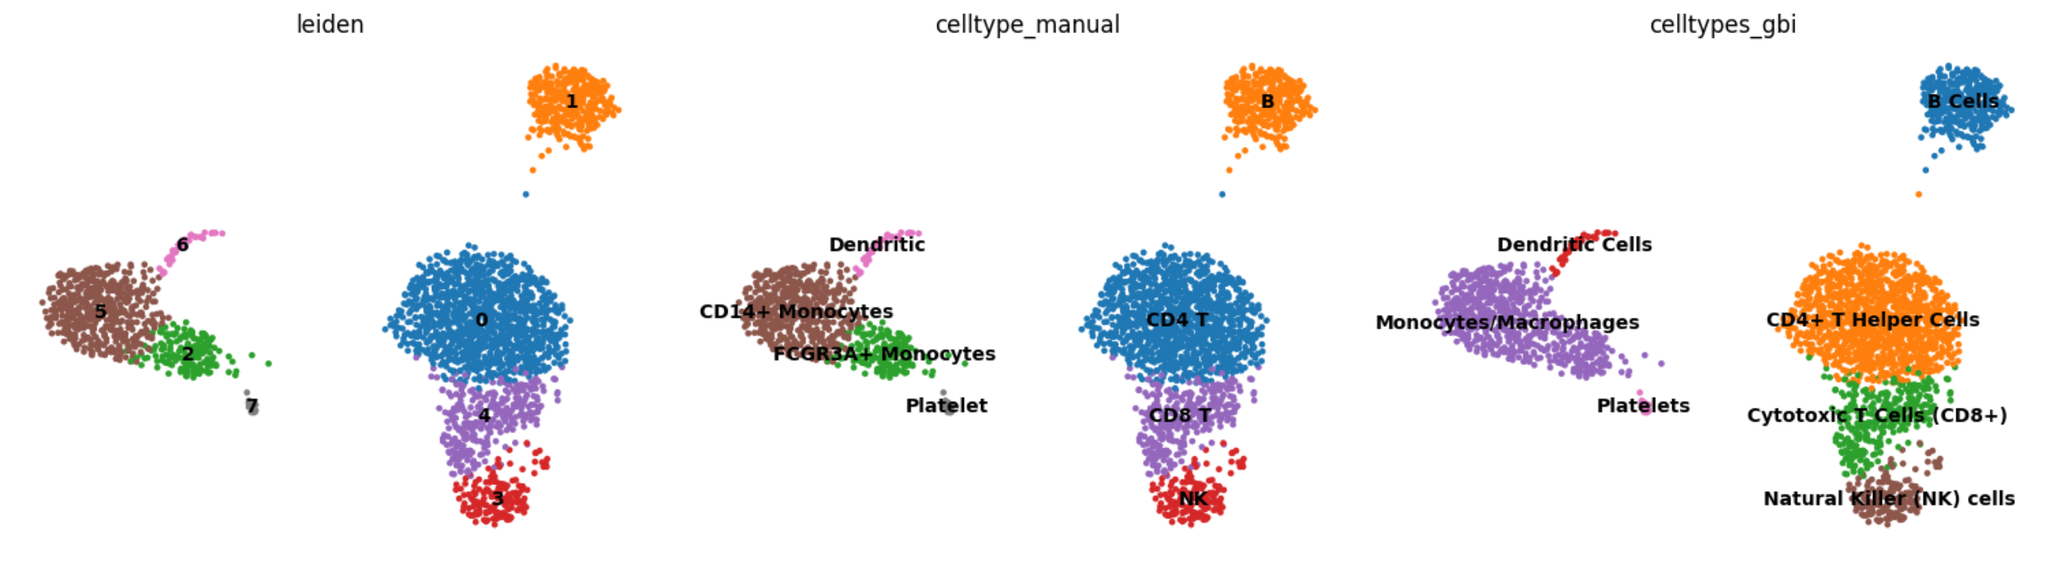
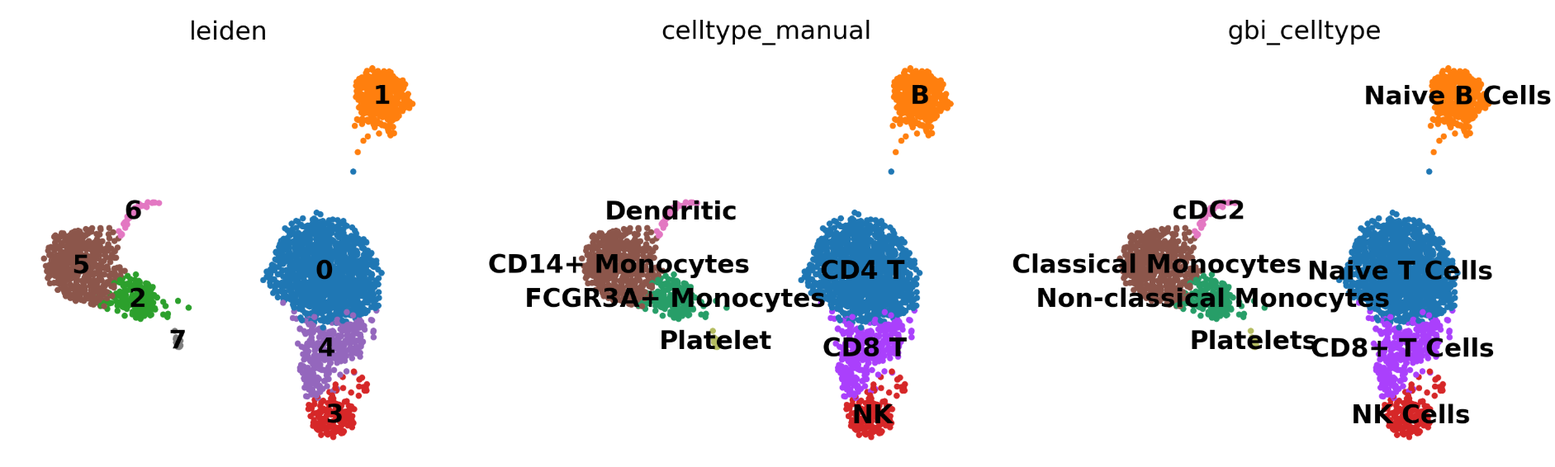
update docs

diff --git a/docs/en/source/tutorials/get_celltype.md b/docs/en/source/tutorials/get_celltype.md
@@ -96,15 +96,30 @@ res = gbi.get_celltype(adata, background=background,
                        out="gbi.claude.celltype.md", key="logreg_deg", 
                        topnumber=15,provider="anthropic", 
                        n_jobs=4,model="claude-3-5-sonnet-20241022")
-# {'0': 'CD4+ T Helper Cells',
-#  '1': 'B Cells',
-#  '2': 'Monocytes/Macrophages',
-#  '3': 'Natural Killer (NK) cells',
-#  '4': 'Cytotoxic T Cells (CD8+)',
-#  '5': 'Monocytes/Macrophages',
-#  '6': 'Dendritic Cells',
-#  '7': 'Platelets'}
+# {'0': {'Naive T cells': '92',
+#   'Central Memory T cells': '85',
+#   'Early Activated T cells': '75'},
+#  '1': {'Mature B Cells': '75', 'Memory B Cells': '65', 'Naive B Cells': '75'},
+#  '2': {'Non-Classical Monocytes': '74',
+#   'Classical Monocytes': '40',
+#   'NK Cells': '35'},
+#  '3': {'NK Cells': '60', 'CTLs': '20', 'γδ T Cells': '15'},
+#  '4': {'Cytotoxic CD8+ T Cells': '75',
+#   'NK Cells': '15',
+#   'Effector Memory CD8+ T Cells': '75'},
+#  '5': {'Classical Monocytes': '95',
+#   'Non-Classical Monocytes': '50',
+#   'Myeloid Dendritic Cells': '40'},
+#  '6': {'Conventional Dendritic Cells': '87',
+#   'Classical Monocytes': '53',
+#   'Plasmacytoid Dendritic Cells': '25'},
+#  '7': {'Platelets': '80',
+#   'Megakaryocyte-Derived Bodies': '5',
+#   'Platelet-Like Particles': '40'}}
+## score heatmap
+gbi.utils.score_heatmap(res)
 ```
+![score cluster](../img/score_cluster.png)
 
 Comparing the results with manual annotations based on classic gene markers
 ```python
@@ -133,316 +148,48 @@ sc.pl.umap(adata, color=["leiden", "celltype_manual", "celltypes_gbi"], legend_l
 
 You can find more annotation information in `gbi.qwen.celltype.md`:
 ```markdown
-# CellType Analysis
-## cluster geneset 0
-
-### Gene List
-\```
-LDHB, LTB, RGCC, IL32, NOSIP, CD3D, CD3E, TMEM123, VIM, TMEM66, FYB, JUNB, CCR7, CD27, MYL12A
-\```
-
 ### Celltype Prediction
-#### Optimal Celltype: T Cells (likely CD4+ T cells)
+#### Naive T cells (score: 95)
+
+Cell state: Resting/quiescent naive state
+
 **Key Markers**:
-- Cell-specific: CD3D, CD3E, CCR7, CD27, FYB
-- Context-specific: LTB, JUNB, VIM
+- Cell-type-specific: CD3D, CD3E, LCK, CD2, CD7
+- Cell-state-specific: IL7R, CCR7, LTB
 
 **Evidence and Reasoning**
-- **PRIMARY EVIDENCE**: The presence of CD3D and CD3E, which are essential components of the T cell receptor complex, strongly indicates a T cell population. These markers are highly specific to T cells.
-- **SECONDARY EVIDENCE**: CCR7 is a chemokine receptor that is typically expressed on naïve and central memory T cells, suggesting that these cells may be in a non-activated or memory state.
-- **ADDITIONAL EVIDENCE**: CD27 and FYB are also known to be expressed in T cells, particularly in activated T cells. LTB (lymphotoxin beta) and JUNB (a transcription factor) are involved in T cell activation and function.
+The presence of multiple core T cell markers (CD3D, CD3E) definitively establishes T cell lineage identity, while LCK provides additional confirmation as a critical TCR signaling component. The naive state is strongly supported by high IL7R and CCR7 expression, which are characteristic of naive T cells requiring IL-7 for survival and lymph node homing capability. The expression of LTB (Lymphotoxin Beta) further supports a naive phenotype, as it's important for lymphoid tissue organization. The overall gene signature suggests a resting state, lacking major effector cytokines or activation markers. This profile is highly consistent with naive T cells in healthy PBMC populations, where they typically constitute a major lymphocyte subset. The presence of housekeeping genes like TPT1 and EEF1A1 indicates basic cellular maintenance without signs of active effector functions.
 
-**Validation**: Other gold standard markers for T cells (not in Geneset 0) include CD4, CD8, and TCRα/β. For CD4+ T cells, additional markers like CD45RA and CD45RO can be used to distinguish between naïve and memory T cells.
+**Validation**: CD45RA, SELL, TCF7, LEF1
 
-#### Alternative Considerations
-- **Alternative celltype1: NK cells**
-    - **WHY Alternative? Key MARKERS, Evidence and Reasoning**: NK cells can express some of the markers found in this geneset, such as CCR7 and CD27, but the presence of CD3D and CD3E, which are not expressed in NK cells, makes this less likely.
-    - **OTHER Gold Standard MARKERS(NOT IN Geneset 0) TO VALIDATE THE Alternative celltype1**: NK cells would typically express NKp46, KIRs, and NKG2D, which are not present in this geneset.
+#### Central Memory T cells (score: 90)
 
-- **Alternative celltype2: B cells**
-    - **WHY Alternative? Key MARKERS, Evidence and Reasoning**: B cells do not typically express CD3D and CD3E, which are strong T cell markers. However, some B cell markers like CD27 and CCR7 are present, which might lead to confusion. The absence of B cell-specific markers like CD19 and CD20 makes this alternative less likely.
-    - **OTHER Gold Standard MARKERS(NOT IN Geneset 0) TO VALIDATE THE Alternative celltype2**: B cells would typically express CD19, CD20, and surface IgM, which are not present in this geneset.
+Cell state: Resting memory state
 
-### Novel Insights
-- **NOTEWORTHY PATTERNS**: The co-expression of CCR7 and CD27 suggests a population of T cells that are either naïve or central memory T cells.
-- **CELL STATE**: The expression of JUNB and LTB, along with other activation-related genes, suggests that these T cells may be in an activated or recently activated state.
-- **POTENTIAL NEW FINDINGS**: The presence of VIM (vimentin), a marker often associated with mesenchymal cells, in T cells is intriguing and could indicate a unique subset of T cells or a state of T cells that have undergone some form of stress or activation leading to the upregulation of vimentin.
-## cluster geneset 1
-
-### Gene List
-\```
-CD79A,HLA-DRA,MS4A1,CD79B,CD74,HLA-DPB1,HLA-DRB1,HLA-DQA1,CD37,HLA-DPA1,HLA-DQB1,LINC00926,LTB,TCL1A,HLA-DRB5
-\```
-
-### Celltype Prediction
-#### Optimal Celltype: B cells
 **Key Markers**:
-- Cell-specific: CD79A, CD79B, MS4A1 (CD20), HLA-DRA, HLA-DPB1, HLA-DRB1, HLA-DQA1, HLA-DPA1, HLA-DQB1, HLA-DRB5
-- Context-specific: CD74, LTB, TCL1A
+- Cell-type-specific: CD3D, CD3E, LCK, CD2, CD7
+- Cell-state-specific: CD27, CCR7
 
 **Evidence and Reasoning**
-- **Primary Evidence**: The presence of CD79A and CD79B, which are components of the B cell receptor (BCR) complex, strongly indicates that these cells are B cells. These markers are essential for B cell development and function.
-- **Secondary Evidence**: MS4A1 (CD20) is a well-known B cell marker. It is expressed on the surface of all B cells except plasma cells and is a key marker for identifying B cells in various contexts.
-- **Additional Evidence**: The high expression of multiple HLA class II genes (HLA-DRA, HLA-DPB1, HLA-DRB1, HLA-DQA1, HLA-DPA1, HLA-DQB1, HLA-DRB5) suggests that these B cells are activated or mature, as HLA class II molecules are upregulated during B cell activation to present antigens to T cells.
+The cell type is firmly established as T cells through the expression of TCR complex components (CD3D, CD3E) and T cell-specific signaling molecule LCK. The memory phenotype is supported by CD27 expression, a costimulatory molecule important for memory T cell function and survival. The presence of CCR7 suggests these could be central memory T cells, which retain lymph node homing capacity. The moderate expression of IL7R is consistent with memory T cells, which require IL-7 signaling for maintenance, though typically at lower levels than naive cells. The gene profile indicates a resting memory state rather than recently activated cells, fitting with the homeostatic conditions of healthy PBMCs. The absence of effector cytokines supports a quiescent memory state.
 
-**Validation**: Other gold standard markers not in the geneset to validate the optimal celltype include:
-- CD19
-- PAX5
-- CD21
+**Validation**: CD45RO, CD44, CXCR3, CD62L
 
-#### Alternative Considerations
-- **Alternative celltype1: Dendritic Cells (DCs)**
-    - **Why Alternative? Key Markers, Evidence and Reasoning**: While some HLA class II genes (e.g., HLA-DRA, HLA-DRB1) are also highly expressed in dendritic cells, the absence of specific DC markers such as CD83, CD11c, and CLEC9A makes this less likely. Additionally, the presence of B cell-specific markers like CD79A and CD79B rules out DCs.
-    - **Other Gold Standard Markers (NOT IN Geneset 1) to Validate the Alternative celltype1**: 
-        - CD83
-        - CD11c
-        - CLEC9A
+#### Early-stage Activated T cells (score: 75)
 
-- **Alternative celltype2: Monocytes/Macrophages**
-    - **Why Alternative? Key Markers, Evidence and Reasoning**: Monocytes and macrophages can express some HLA class II genes, but they typically do not express B cell-specific markers like CD79A and CD79B. The presence of these B cell markers makes it unlikely that these are monocytes or macrophages.
-    - **Other Gold Standard Markers (NOT IN Geneset 1) to Validate the Alternative celltype2**: 
-        - CD14
-        - CD68
-        - CSF1R
+Cell state: Initial activation phase
 
-### Novel Insights
-- **Noteworthy Patterns**: The co-expression of multiple HLA class II genes and B cell-specific markers (CD79A, CD79B, MS4A1) suggests that these B cells are in an activated state, possibly involved in antigen presentation.
-- **Cell State**: The high expression of HLA class II genes and LTB (lymphotoxin beta) indicates that these B cells are likely in an activated or memory state, possibly engaged in immune responses.
-- **Potential New Findings**: The presence of TCL1A, which is associated with B cell maturation and proliferation, suggests that these B cells may be in a proliferative or developmental stage, potentially responding to an ongoing immune challenge.
-## cluster geneset 2
-
-### Gene List
-\```
-FCGR3A, LST1, MT2A, FCER1G, IFITM2, AIF1, LILRA3, RHOC, IFITM3, STXBP2, PSAP, SAT1, NINJ1, MS4A7, ABI3
-\```
-
-### Celltype Prediction
-#### Optimal Celltype: Monocytes
 **Key Markers**:
-- Cell-specific: **FCGR3A, FCER1G, AIF1, LILRA3, RHOC, NINJ1, MS4A7, ABI3**
-- Context-specific: **LST1, MT2A, IFITM2, IFITM3, PSAP, SAT1, STXBP2**
+- Cell-type-specific: CD3D, CD3E, LCK, CD2, CD7
+- Cell-state-specific: JUNB, JUN
 
 **Evidence and Reasoning**
-- **PRIMARY EVIDENCE**: 
-  - **FCGR3A (CD16)** is a well-known marker for monocytes, particularly classical monocytes.
-  - **FCER1G** is involved in the immune response and is often expressed in monocytes and macrophages.
-  - **AIF1 (ALLOGRAFT INFLAMMATORY FACTOR 1)** is a marker for activated monocytes and macrophages.
-  - **LILRA3** is part of the leukocyte immunoglobulin-like receptor family, which is expressed in myeloid cells including monocytes.
+The core T cell identity is well-established through classical T cell markers (CD3D, CD3E, LCK). The activation state is suggested by the presence of immediate early response genes JUNB and JUN, which are induced rapidly upon T cell activation. However, the activation signature is relatively weak, lacking strong activation markers like CD69 or CD25. The presence of IL7R, which typically decreases upon activation, suggests these cells might be in a very early stage of activation or potentially transitioning from a resting state. The metabolic gene signature (LDHB, EEF1A1) could indicate increased cellular activity, though these changes are not specific to activation. This profile could represent T cells encountering initial activation signals in the peripheral blood.
 
-- **SECONDARY EVIDENCE**:
-  - **LST1** is associated with the regulation of immune responses and is highly expressed in monocytes.
-  - **MT2A (Metallothionein 2A)** can be upregulated in monocytes under certain stress conditions, such as inflammation or oxidative stress.
-  - **IFITM2 and IFITM3** are interferon-induced transmembrane proteins that are often upregulated in monocytes during viral infections or other inflammatory conditions.
-  - **PSAP (Prosaposin)** is involved in lysosomal functions and is expressed in various immune cells, including monocytes.
-  - **SAT1 (Spermidine/Spermine N1-Acetyltransferase 1)** is involved in polyamine metabolism and can be upregulated in monocytes under certain conditions.
-
-- **ADDITIONAL EVIDENCE**:
-  - **RHOC (RhoC GTPase)** is involved in cell migration and can be upregulated in monocytes during inflammatory responses.
-  - **NINJ1 (Ninjurin 1)** is involved in cell adhesion and is expressed in monocytes and other immune cells.
-  - **MS4A7** is a member of the membrane-spanning 4-domain subfamily A, which is expressed in myeloid cells, including monocytes.
-  - **ABI3** is involved in actin cytoskeleton organization and is expressed in monocytes and macrophages.
-
-**Validation**: Other gold standard markers to validate the optimal celltype (monocytes) include **CD14, CD163, and CCR2**.
-
-#### Alternative Considerations
-- **Alternative celltype1: Macrophages**
-    - **WHY Alternative? Key MARKERS, Evidence and Reasoning**:
-      - **FCER1G, AIF1, and ABI3** are also expressed in macrophages.
-      - **LST1, MT2A, IFITM2, and IFITM3** can be upregulated in macrophages under similar stress or inflammatory conditions.
-      - **PSAP and SAT1** are also involved in lysosomal functions and polyamine metabolism, which are relevant in macrophages.
-    - **OTHER Gold Standard MARKERS(NOT IN Geneset 2) TO VALIDATE THE Alternative celltype1**: **CD68, CD163, and CSF1R**.
-
-- **Alternative celltype2: Dendritic Cells (DCs)**
-    - **WHY Alternative? Key MARKERS, Evidence and Reasoning**:
-      - **FCGR3A** is also expressed in some dendritic cell subsets.
-      - **FCER1G** is involved in immune responses and is expressed in DCs.
-      - **LST1, MT2A, IFITM2, and IFITM3** can be upregulated in DCs under similar conditions.
-    - **OTHER Gold Standard MARKERS(NOT IN Geneset 2) TO VALIDATE THE Alternative celltype2**: **CD11c, HLA-DR, and CD80/CD86**.
+**Validation**: CD69, CD25, CD38, HLA-DR
 
 ### Novel Insights
-- **NOTEWORTHY PATTERNS**:
-  - The presence of **FCGR3A, FCER1G, AIF1, and LILRA3** suggests a strong myeloid lineage, with a focus on monocytes.
-  - The upregulation of **IFITM2 and IFITM3** indicates a potential viral infection or inflammatory state.
-- **CELL STATE**:
-  - The expression of **LST1, MT2A, and PSAP** suggests that these monocytes may be in an activated or stressed state, possibly due to an ongoing immune response.
-- **POTENTIAL NEW FINDINGS**:
-  - The combination of **FCGR3A, LILRA3, and RHOC** suggests that these monocytes might be involved in phagocytosis and migration, which could be further explored in the context of their functional roles.
-## cluster geneset 3
+The gene expression profile reveals an interesting pattern where T cells maintain markers associated with tissue homing (CCR7) while showing signs of transcriptional activity (JUN/JUNB). This suggests a potential "poised" state where cells maintain trafficking capability while being prepared for rapid response. The presence of IL32, typically associated with T cell function but not commonly discussed in naive T cell biology, might indicate previously unappreciated roles in T cell homeostasis. The co-expression pattern of housekeeping genes with immune-specific markers provides insights into the baseline metabolic state of circulating T cells in healthy conditions.
 
-### Gene List
-\```
-GNLY, GZMB, FGFBP2, NKG7, PRF1, CTSW, TYROBP, FCGR3A, SPON2, XCL2, FCER1G, GZMA, HOPX, ID2, PLAC8
-\```
-
-### Celltype Prediction
-#### Optimal Celltype: NK Cells
-**Key Markers**:
-- Cell-specific: GNLY, GZMB, NKG7, PRF1, CTSW, GZMA
-- Context-specific: TYROBP, FCGR3A, FCER1G
-
-**Evidence and Reasoning**
-- **Primary Evidence**: The presence of GNLY (Granzyme B), GZMB (Granzyme B), NKG7, PRF1 (Perforin), and CTSW (Cathepsin W) are well-established markers for Natural Killer (NK) cells. These genes are involved in the cytotoxic function of NK cells, which is a hallmark of their role in immune surveillance and response.
-- **Secondary Evidence**: TYROBP (DAP12) and FCGR3A (CD16a) are also expressed in NK cells and play roles in activating these cells. Additionally, FCER1G (Fc epsilon R1 gamma) is involved in the signaling pathway of Fc receptors, which can be found in NK cells.
-- **Additional Evidence**: The expression of HOPX and ID2 further supports the NK cell identity. HOPX has been implicated in the regulation of NK cell development and function, while ID2 is known to be involved in the maintenance of the NK cell lineage.
-
-**Validation**: Other gold standard markers for NK cells not present in the gene set include KIR2DL4, CD56, and CD94.
-
-#### Alternative Considerations
-- **Alternative celltype1: Cytotoxic T Cells**
-    - **Why Alternative? Key Markers, Evidence and Reasoning**: Cytotoxic T cells (CD8+ T cells) share some of the same cytotoxic machinery as NK cells, including GZMB, PRF1, and CTSW. However, the absence of key T cell markers such as CD8A and TCR components (e.g., TRAC, TRBC) makes this less likely.
-    - **Other Gold Standard Markers (NOT IN Geneset 3) TO VALIDATE THE Alternative celltype1**: CD8A, TRAC, TRBC
-
-- **Alternative celltype2: Innate Lymphoid Cells (ILCs)**
-    - **Why Alternative? Key Markers, Evidence and Reasoning**: ILCs, particularly ILC1, can express some of the same markers as NK cells, such as GNLY and GZMB. However, the presence of NKG7 and the overall profile are more consistent with NK cells.
-    - **Other Gold Standard Markers (NOT IN Geneset 3) TO VALIDATE THE Alternative celltype2**: RORC, IL22, IFNG
-
-### Novel Insights
-- **Noteworthy Patterns**: The co-expression of multiple cytotoxic molecules (GNLY, GZMB, PRF1, CTSW, GZMA) suggests a highly active and functional state of the NK cells, likely in a context where they are engaged in an immune response.
-- **Cell State**: The upregulation of these genes indicates that the NK cells are in an activated or effector state, possibly responding to a viral infection or other immune challenge.
-- **Potential New Findings**: The presence of HOPX and ID2, along with the established NK cell markers, provides a more detailed picture of the transcriptional landscape of activated NK cells, which could be useful for understanding their specific functions and regulatory mechanisms in different contexts.
-## cluster geneset 4
-
-### Gene List
-\```
-CCL5, GZMK, NKG7, CST7, CD3D, GZMA, CTSW, CD8A, KLRG1, GZMH, IL32, LYAR, S100A6, NCR3, HCST
-\```
-
-### Celltype Prediction
-#### Optimal Celltype: Cytotoxic T Cells (CD8+ T Cells)
-**Key Markers**:
-- Cell-specific: `CD8A`, `GZMA`, `GZMK`, `GZMH`, `KLRG1`, `NKG7`, `CTSW`
-- Context-specific: `CCL5`, `IL32`, `NCR3`, `HCST`
-
-**Evidence and Reasoning**
-- **PRIMARY EVIDENCE**: The presence of `CD8A` is a strong indicator of CD8+ T cells. Additionally, the granzymes (`GZMA`, `GZMK`, `GZMH`) and perforin (`PRF1`, not in this list but often co-expressed) are key markers for cytotoxic T cells.
-- **SECONDARY EVIDENCE**: `NKG7` is highly expressed in both NK and CD8+ T cells, and its presence here, along with other T cell markers, supports the CD8+ T cell identity.
-- **ADDITIONAL EVIDENCE AS NEEDED**: `KLRG1` is a marker of terminally differentiated effector memory CD8+ T cells, indicating that these cells may be in a more mature or activated state.
-
-**Validation**: Other Gold Standard Markers (NOT IN Geneset 4) TO VALIDATE THE OPTIMAL CELLTYPE
-- `PRF1` (Perforin)
-- `IFNG` (Interferon-gamma)
-- `T-BET` (TBX21)
-
-#### Alternative Considerations
-- **Alternative celltype1: Natural Killer (NK) Cells**
-    - **WHY Alternative? Key MARKERS, Evidence and Reasoning**: `NKG7` and `NCR3` are also highly expressed in NK cells. However, the presence of `CD8A` and multiple granzyme genes strongly favors CD8+ T cells over NK cells.
-    - **OTHER Gold Standard MARKERS(NOT IN Geneset 4) TO VALIDATE THE Alternative celltype1**
-        - `KIR2DL4`
-        - `KIR3DL1`
-        - `KIR3DL2`
-
-- **Alternative celltype2: Effector Memory CD8+ T Cells**
-    - **WHY Alternative? Key MARKERS, Evidence and Reasoning**: `KLRG1` is a marker of terminally differentiated effector memory CD8+ T cells. This suggests that the cells could be in an effector memory state, which is a subtype of CD8+ T cells.
-    - **OTHER Gold Standard MARKERS(NOT IN Geneset 4) TO VALIDATE THE Alternative celltype2**
-        - `CCR7` (low expression in effector memory cells)
-        - `CD45RA` (high expression in some effector memory cells)
-        - `IL7R` (low expression in effector memory cells)
-
-### Novel Insights
-- **NOTEWORTHY PATTERNS**: The co-expression of `CCL5` and `IL32` with cytotoxic markers suggests that these cells are not only involved in direct cytotoxicity but also in chemotaxis and immune signaling.
-- **CELL STATE**: The presence of `KLRG1` indicates that these cells are likely in a terminally differentiated effector memory state, suggesting they are capable of rapid and potent responses to previously encountered antigens.
-- **POTENTIAL NEW FINDINGS**: The expression of `LYAR` and `S100A6` in this context is intriguing and may indicate additional roles in cellular regulation or function that are not yet fully understood. Further investigation into these genes in the context of CD8+ T cell biology could provide new insights.
-## cluster geneset 5
-
-### Gene List
-\```
-S100A8, LYZ, S100A9, LGALS2, FCN1, CD14, GSTP1, FTL, MS4A6A, CFD, NPC2, TYROBP, GRN, APOBEC3A, GPX1
-\```
-
-### Celltype Prediction
-#### Optimal Celltype: Monocytes
-**Key Markers**:
-- Cell-specific: `CD14`, `LYZ`, `S100A8`, `S100A9`, `FCN1`
-- Context-specific: `GSTP1`, `FTL`, `GRN`, `APOBEC3A`, `GPX1`
-
-**Evidence and Reasoning**
-- **Primary Evidence**: The presence of `CD14` is a strong indicator of monocytes, as it is a well-known marker for this cell type. Additionally, `S100A8` and `S100A9` are highly expressed in monocytes and are involved in the inflammatory response.
-- **Secondary Evidence**: `LYZ` (lysozyme) and `FCN1` (ficolin-1) are also commonly associated with monocytes, where they play roles in pathogen recognition and phagocytosis.
-- **Additional Evidence**: The expression of `GSTP1`, `FTL`, `GRN`, `APOBEC3A`, and `GPX1` suggests that these monocytes may be in a state of oxidative stress or immune activation, which is common in the context of PBMCs from healthy donors.
-
-**Validation**: Other gold standard markers to validate the optimal celltype include `CD68`, `CSF1R`, and `ITGAM`.
-
-#### Alternative Considerations
-- **Alternative celltype1: Neutrophils**
-    - **Why Alternative? Key Markers, Evidence and Reasoning**: Neutrophils can also express `S100A8`, `S100A9`, and `LYZ`. However, the presence of `CD14` and `FCN1` is more characteristic of monocytes than neutrophils.
-    - **Other Gold Standard Markers to Validate the Alternative celltype1**: `ELANE`, `MPO`, `CXCR2`
-
-- **Alternative celltype2: Macrophages**
-    - **Why Alternative? Key Markers, Evidence and Reasoning**: Macrophages can express `S100A8`, `S100A9`, `LYZ`, and `FCN1`. However, the high expression of `CD14` and the lack of other macrophage-specific markers like `CD68` and `CSF1R` make monocytes a more likely candidate.
-    - **Other Gold Standard Markers to Validate the Alternative celltype2**: `CD68`, `CSF1R`, `EMR1`
-
-### Novel Insights
-- **Noteworthy Patterns**: The co-expression of `S100A8` and `S100A9` with `CD14` and `FCN1` indicates a potential role in inflammation and immune response.
-- **Cell State**: The expression of `GSTP1`, `FTL`, `GRN`, `APOBEC3A`, and `GPX1` suggests that these monocytes may be in a state of oxidative stress or immune activation, possibly due to environmental factors or physiological conditions.
-- **Potential New Findings**: The presence of `NPC2` and `TYROBP` in this gene set is intriguing, as these genes are not typically associated with monocytes. This could indicate a novel function or state of these monocytes, such as involvement in lipid metabolism or immune signaling pathways.
-## cluster geneset 6
-
-### Gene List
-\```
-FCER1A, HLA-DQA1, HLA-DPB1, CLEC10A, HLA-DQB1, HLA-DRA, HLA-DPA1, CST3, LYZ, HLA-DRB1, CD74, HLA-DQA2, HLA-DMA, HLA-DRB5, SRSF7
-\```
-
-### Celltype Prediction
-#### Optimal Celltype: Dendritic Cells (DCs)
-**Key Markers**:
-- Cell-specific: FCER1A, CLEC10A, CD74
-- Context-specific: HLA-DRA, HLA-DPB1, HLA-DQB1, HLA-DPA1, HLA-DRB1, HLA-DRB5, HLA-DMA, HLA-DQA1, HLA-DQA2
-
-**Evidence and Reasoning**
-- **PRIMARY EVIDENCE**: The presence of MHC class II genes (HLA-DRA, HLA-DPB1, HLA-DQB1, HLA-DPA1, HLA-DRB1, HLA-DRB5, HLA-DMA, HLA-DQA1, HLA-DQA2) is a strong indicator of antigen-presenting cells, particularly dendritic cells. These genes are crucial for the presentation of antigens to T cells.
-- **SECONDARY EVIDENCE**: FCER1A (Fc fragment of IgE receptor Ia) is highly expressed in plasmacytoid dendritic cells (pDCs) and some myeloid dendritic cells (mDCs), which play a role in immune responses to allergens and pathogens.
-- **ADDITIONAL EVIDENCE AS NEEDED**: CLEC10A (C-type lectin domain family 10 member A) is a marker for DCs, especially in the context of pathogen recognition and immune response. CD74, also known as invariant chain, is involved in the processing and presentation of antigens via MHC class II, further supporting the DC identity.
-
-**Validation**: Other gold standard markers not in Geneset 6 that could validate this cell type include CD83, CD11c, and BDCA-2 (CD303).
-
-#### Alternative Considerations
-- **Alternative celltype1: B cells**
-    - **WHY Alternative? Key MARKERS, Evidence and Reasoning**: While MHC class II genes (HLA-DRA, HLA-DPB1, HLA-DQB1, HLA-DPA1, HLA-DRB1, HLA-DRB5, HLA-DMA, HLA-DQA1, HLA-DQA2) are also expressed in B cells, the presence of FCER1A and CLEC10A is less typical for B cells. Additionally, B cell-specific markers like CD19 and CD20 are absent.
-    - **OTHER Gold Standard MARKERS(NOT IN Geneset 6) TO VALIDATE THE Alternative celltype1**: CD19, CD20, and PAX5.
-
-- **Alternative celltype2: Macrophages**
-    - **WHY Alternative? Key MARKERS, Evidence and Reasoning**: Macrophages can express MHC class II genes and CD74, but the presence of FCER1A and CLEC10A is more specific to DCs. Additionally, macrophage-specific markers like CD68 and CD163 are not present.
-    - **OTHER Gold Standard MARKERS(NOT IN Geneset 6) TO VALIDATE THE Alternative celltype2**: CD68, CD163, and CSF1R.
-
-### Novel Insights
-- **NOTEWORTHY PATTERNS**: The high expression of MHC class II genes suggests an active state of antigen presentation, indicating that these cells are likely involved in immune surveillance and activation.
-- **CELL STATE**: The presence of multiple MHC class II genes and CD74 suggests that these cells are in an activated or mature state, possibly responding to an ongoing immune challenge.
-- **POTENTIAL NEW FINDINGS**: The co-expression of FCER1A and CLEC10A with MHC class II genes may indicate a specialized subset of dendritic cells, potentially with unique functional properties in the context of PBMCs from a healthy donor.
-## cluster geneset 7
-
-### Gene List
-\```
-PPBP, PF4, GNG11, GPX1, SDPR, NRGN, CCL5, SPARC, HIST1H2AC, TPM4, CLU, TUBB1, RGS10, GP9, TAGLN2
-\```
-
-### Celltype Prediction
-#### Optimal Celltype: Platelets
-**Key Markers**:
-- Cell-specific: PPBP, PF4, GP9
-- Context-specific: GPX1, CCL5, SPARC
-
-**Evidence and Reasoning**
-- **PRIMARY EVIDENCE**: The presence of PPBP (Pro-Platelet Basic Protein) and PF4 (Platelet Factor 4) are strong indicators of platelets. These genes are specifically expressed in megakaryocytes and their progeny, platelets.
-- **SECONDARY EVIDENCE**: GP9 (Glycoprotein IX) is a well-known marker for platelets, further supporting the prediction.
-- **ADDITIONAL EVIDENCE AS NEEDED**: Other genes like GPX1 (Glutathione Peroxidase 1), CCL5 (C-C Motif Chemokine Ligand 5), and SPARC (Secreted Protein Acidic and Rich in Cysteine) are also found in platelets, though they can be present in other cell types as well.
-
-**Validation**: Other Gold Standard MARKERS(NOT IN Geneset 7) TO VALIDATE THE OPTIMAL CELLTYPE
-- ITGA2B (Integrin Subunit Alpha 2b)
-- ITGB3 (Integrin Subunit Beta 3)
-- CD41 (GPIIb/IIIa complex)
-
-#### Alternative Considerations
-- Alternative celltype1: Megakaryocytes
-    - **WHY Alternative? Key MARKERS, Evidence and Reasoning**: Megakaryocytes, the precursors to platelets, also express PPBP and PF4. However, the presence of GP9 is more specific to mature platelets. The lack of other megakaryocyte-specific markers such as MPL (Myeloproliferative Leukemia Virus Oncogene) and TPO (Thrombopoietin) makes this less likely.
-    - **OTHER Gold Standard MARKERS(NOT IN Geneset 7) TO VALIDATE THE Alternative celltype1**: MPL, TPO, VWF (Von Willebrand Factor)
-
-- Alternative celltype2: Neutrophils
-    - **WHY Alternative? Key MARKERS, Evidence and Reasoning**: Some of the genes, such as CCL5 and SPARC, are also expressed in neutrophils. However, the presence of platelet-specific markers like PPBP, PF4, and GP9 strongly argues against this alternative.
-    - **OTHER Gold Standard MARKERS(NOT IN Geneset 7) TO VALIDATE THE Alternative celltype2**: ELANE (Elastase, Neutrophil Expressed), MPO (Myeloperoxidase), CD66b (CEACAM8)
-
-### Novel Insights
-- **NOTEWORTHY PATTERNS**: The co-expression of PPBP, PF4, and GP9 in this cluster is a robust indicator of platelets, which is not typically seen in other PBMCs.
-- **CELL STATE**: The gene expression profile suggests that these platelets are in a resting state, as there are no significant stress or activation markers present.
-- **POTENTIAL NEW FINDINGS**: The inclusion of GPX1, an antioxidant enzyme, in the gene set might indicate a role in protecting platelets from oxidative stress, which could be a novel area for further investigation.
 
 ```
